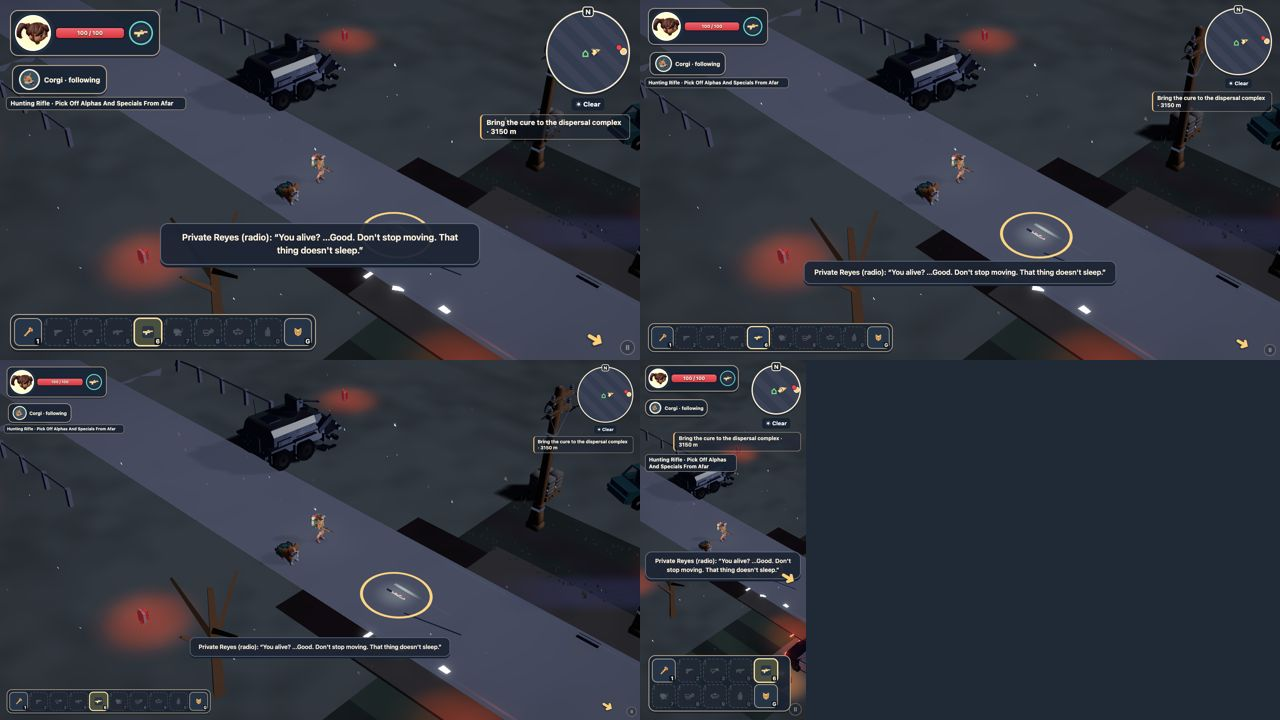
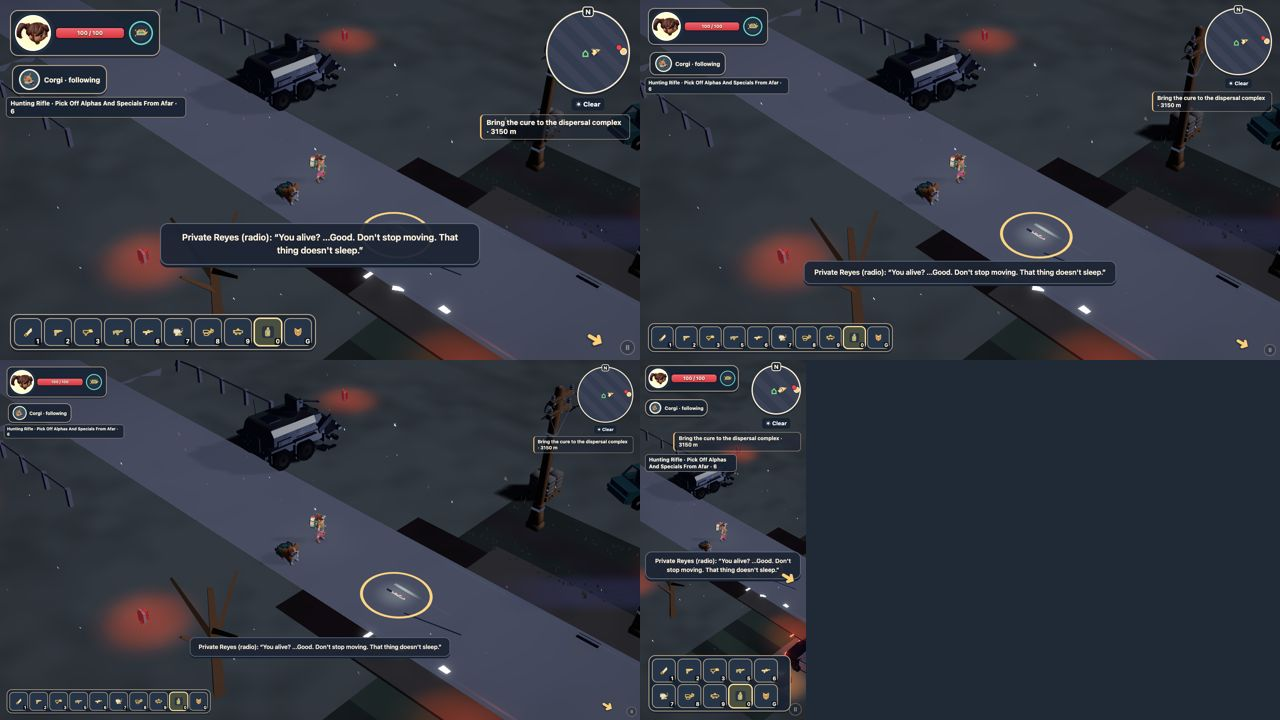
Capture actual weapon pickup hint

diff --git a/docs/reports/s200-hudfixes/README.md b/docs/reports/s200-hudfixes/README.md
@@ -4,16 +4,16 @@ The hint is anchored below the health and companion panels, wraps within the vie
 
 ## Visual review
 
-[Hint captures](hint-captures.jpg) show 1280×720, 1600×900, 1920×1080 and 390×844 (in that order). I inspected the originals: the hunting-rifle role is fully visible on one line at each desktop size; on the phone it wraps to two lines below the tracker, clear of the health panel, weather and rack. These captures show the weapon-selection hint, which uses the same element and styling as the pickup hint; they do not show the pickup's trailing key.
+[Hint captures](hint-captures.jpg) show 1280×720, 1600×900, 1920×1080 and 390×844 (in that order). I inspected the originals: the hunting-rifle pickup role and key 6 are fully visible; the key wraps onto a second line at desktop sizes, and the message wraps to two lines on the phone below the tracker, clear of the health panel, weather and rack.
 
 [Rack captures](rack-captures.jpg) show molotov above pipe bomb at 1280×720. The bottle is vertical and the pipe bomb horizontal with end caps and fuse. Both share slot 0, so the rack shows one representative at a time; the two captures use separate loadouts.
 
 ## Validation
 
 - `npm run typecheck` and `npm run lint` — passed after the final placement change.
-- Focused headless gameplay capture run — passed for four viewports and both throwable loadouts. The temporary capture fixture selected the hunting rifle and verified the role text; it was removed afterwards.
+- Focused headless gameplay capture run — passed for four viewports and both throwable loadouts. The temporary capture fixture spawned and collected a hunting rifle in the initialized game and asserted the role and key; it was removed afterwards.
 - Focused asset contract — passed; weapon icons have distinct registered IDs.
 - Remote `sh tools/remote/run.sh "$PWD" -- npm test` — passed, 27 files, 105 tests passed and one skipped, 196.2 s.
 - QA build — passed.
 
-The real pickup message with its trailing key was not captured; attempts to trigger a pickup via the test fixture did not surface it. The existing full smoke test also expects both shared-slot throwables as separate simultaneous tiles and times out on that expectation. Those are open verification gaps.
+The existing full smoke test expects both shared-slot throwables as separate simultaneous tiles and times out on that expectation. The focused capture run stopped before that unrelated assertion.
